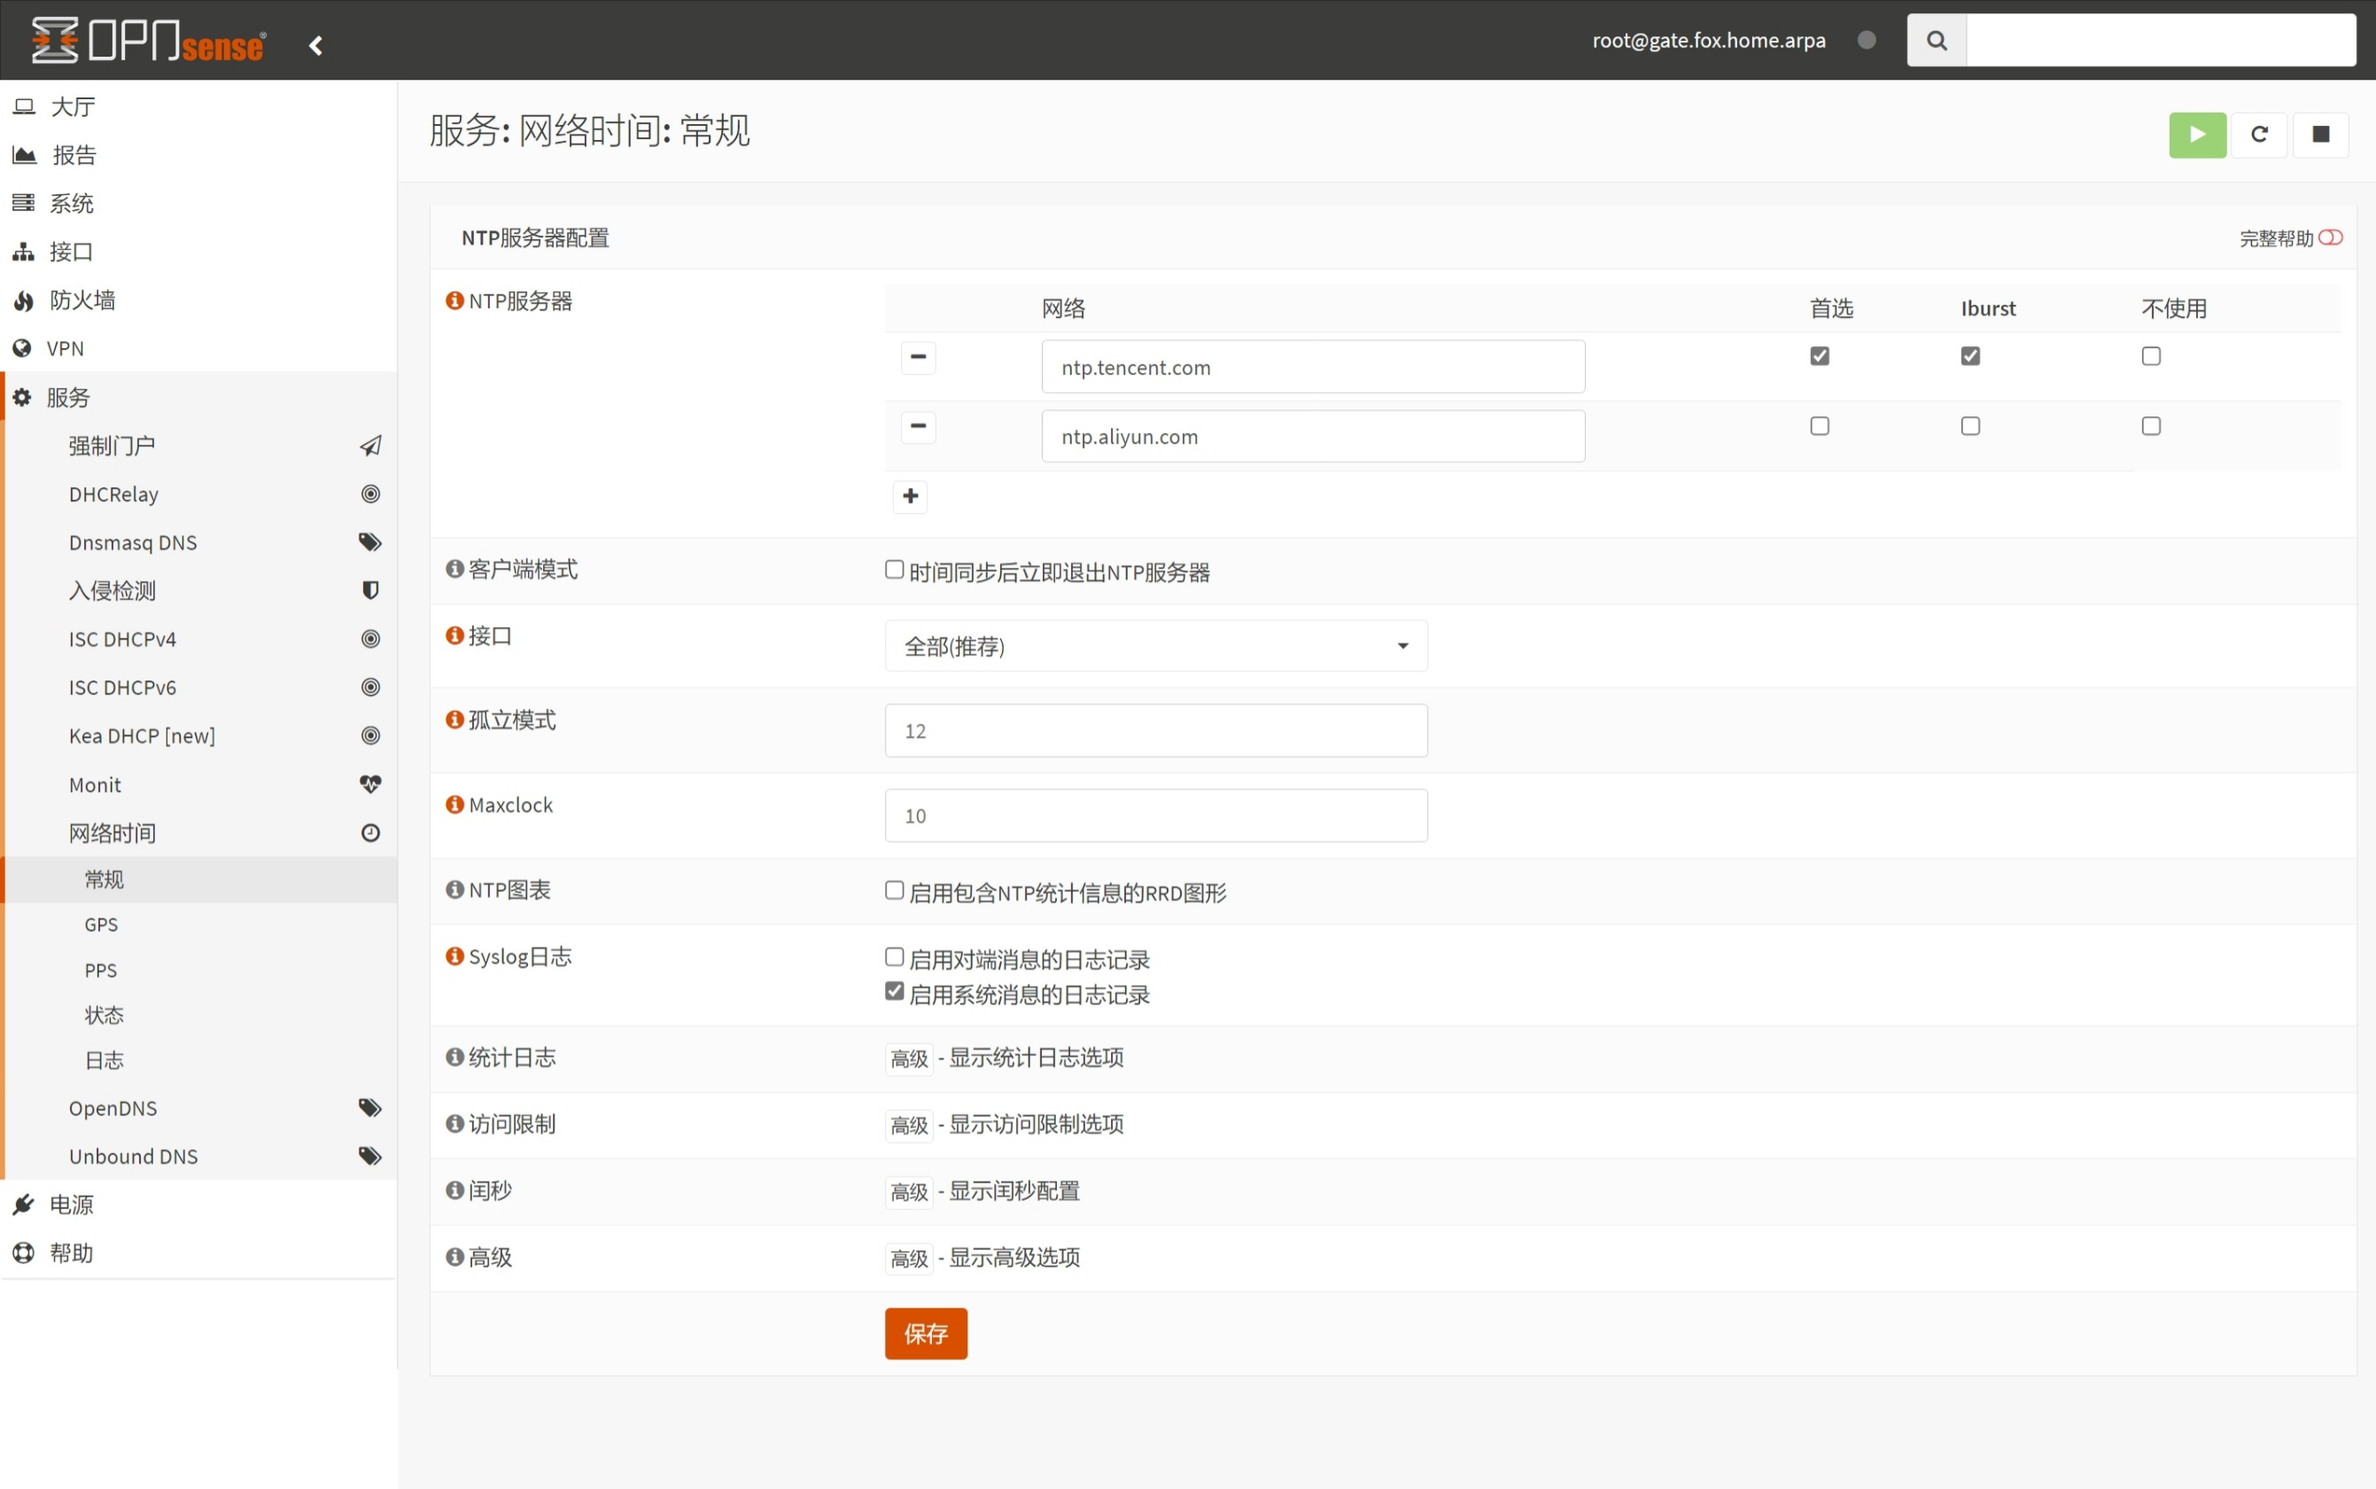
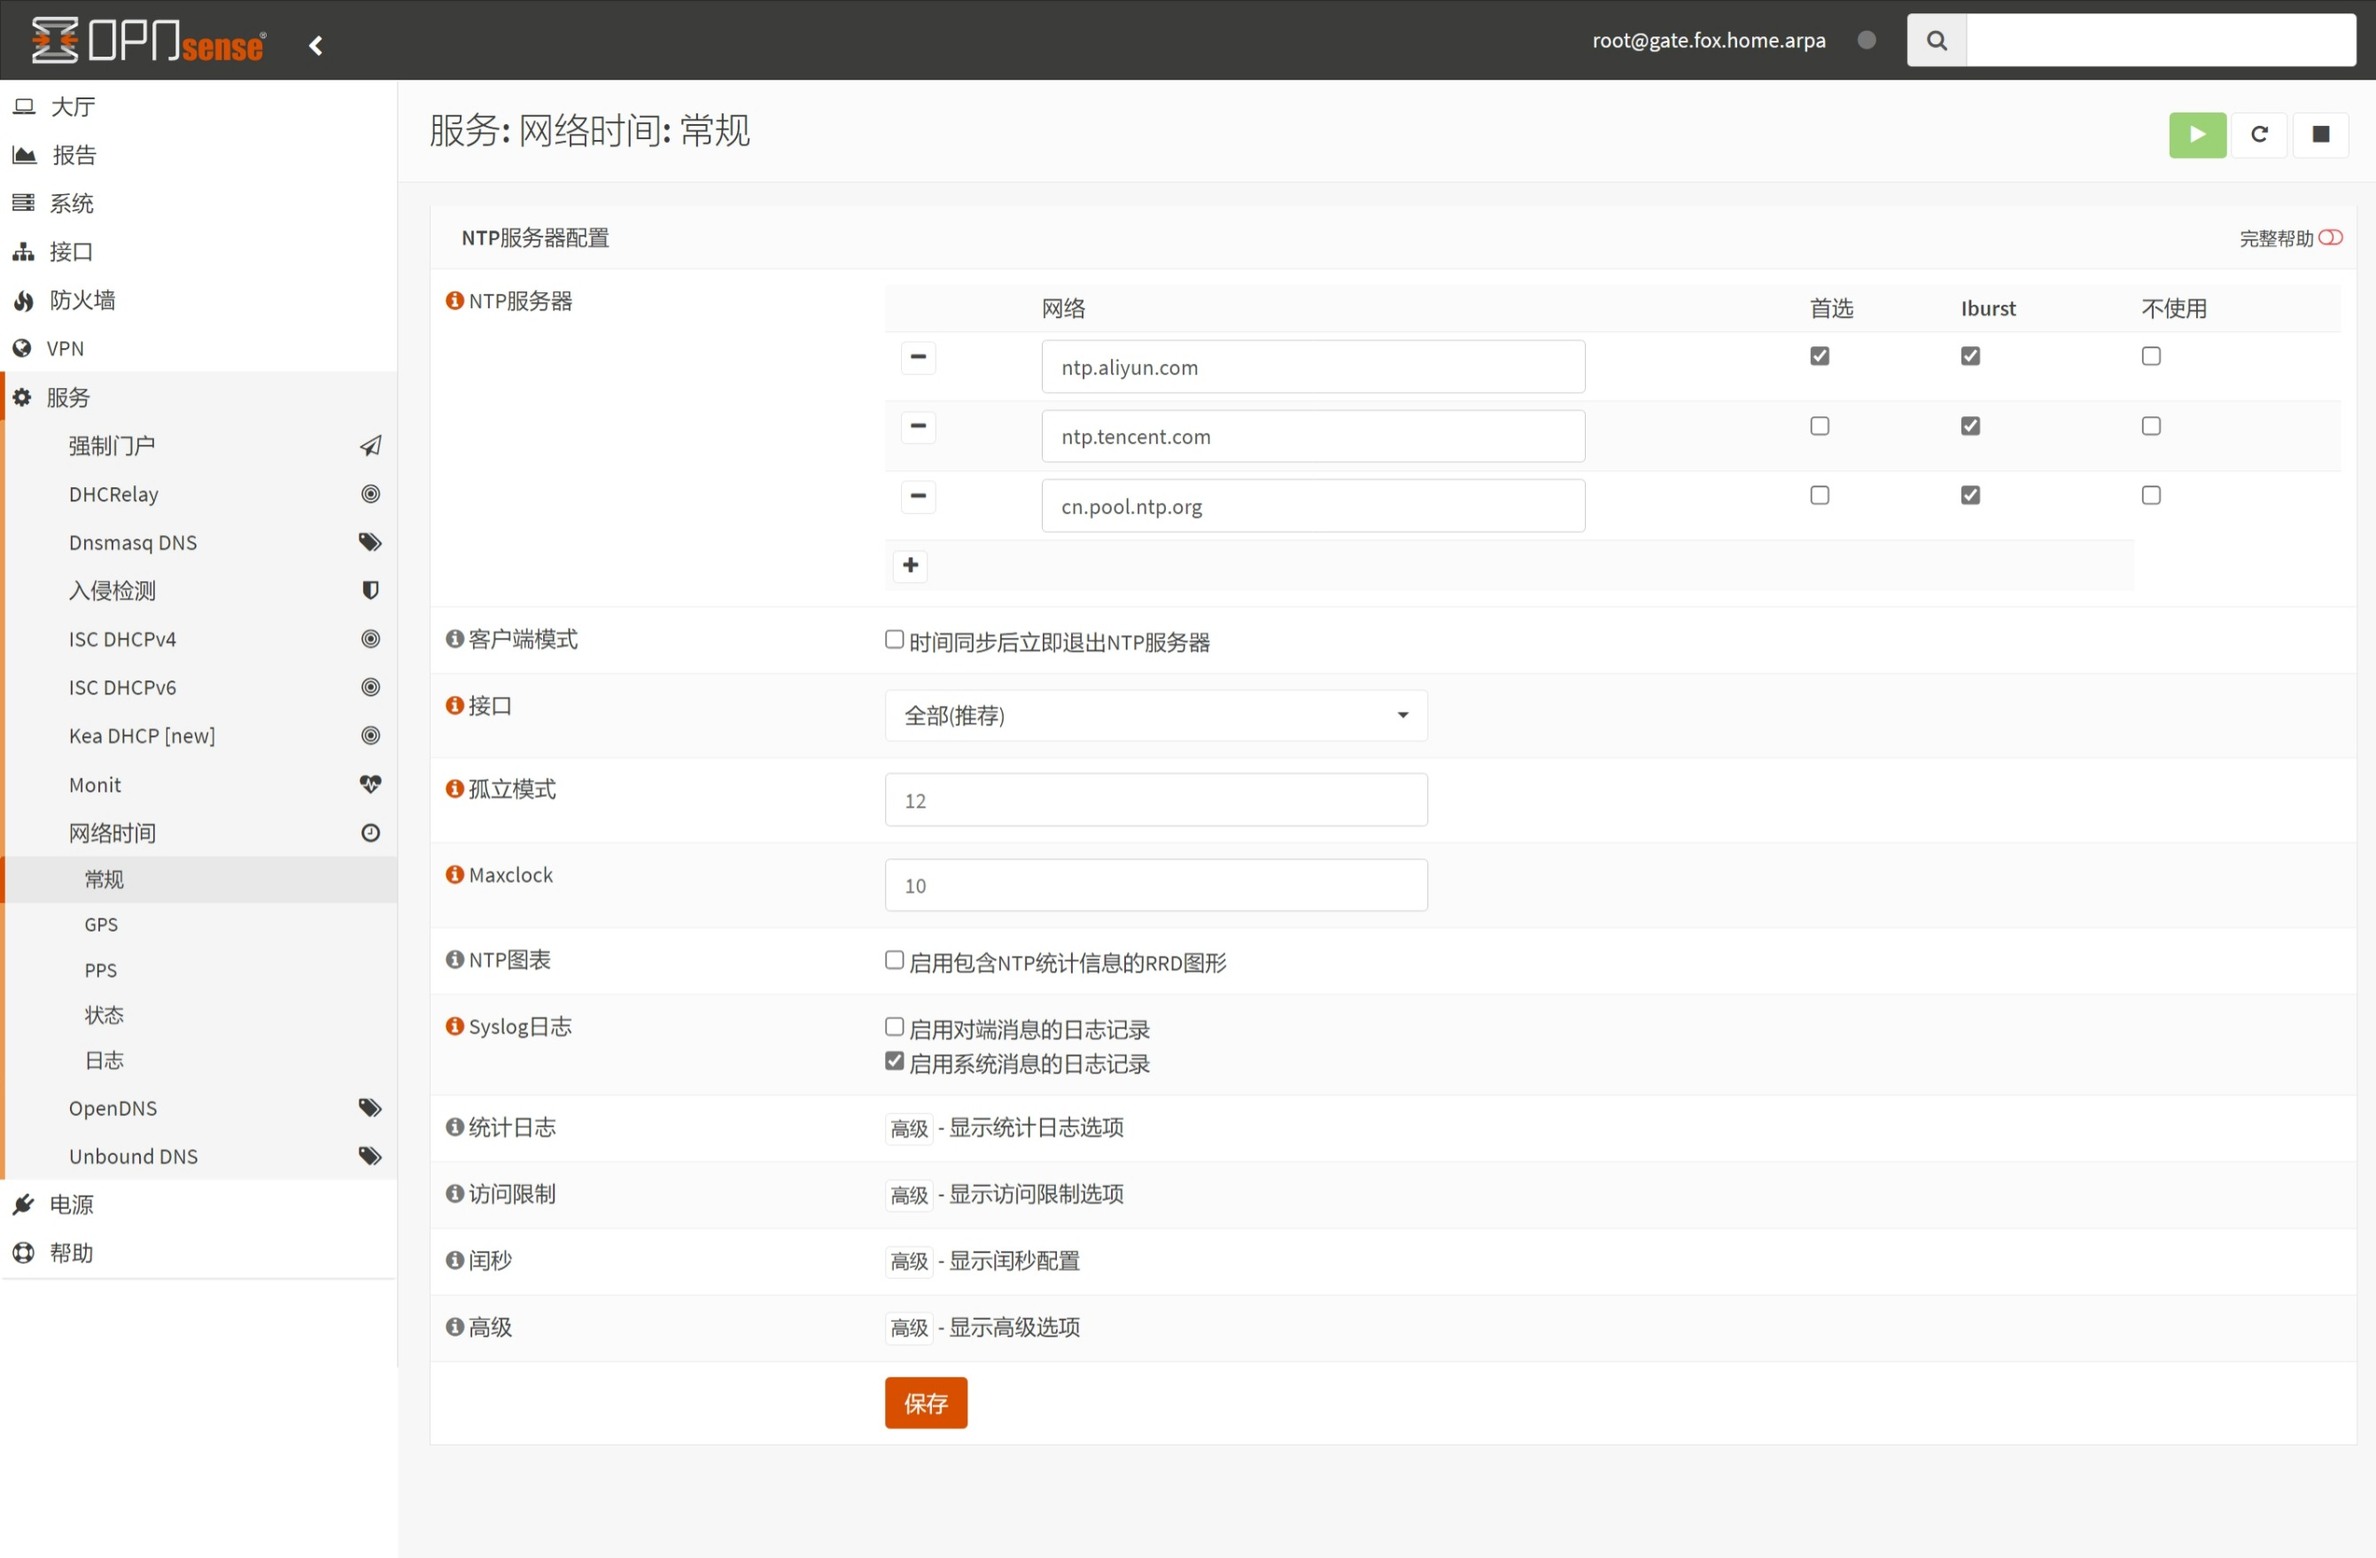
同步更新

diff --git a/08.设置Unbound.md b/08.设置Unbound.md
@@ -95,18 +95,34 @@
 
 ```txt
 ## 列表名称
-Malware Filter - 用于拦截病毒域名
-
-## 黑名单链接
-https://malware-filter.gitlab.io/malware-filter/urlhaus-filter-hosts.txt
-```
-
-```txt
-## 列表名称
 Neodevhost - 用于拦截广告域名
 
 ## 黑名单链接
 https://neodev.team/lite_host
+```
+
+```txt
+## 列表名称
+anti-AD Filters - 用于拦截广告域名
+
+## 黑名单链接
+https://anti-ad.net/domains.txt
+```
+
+```txt
+## 列表名称
+StevenBlack - 用于拦截广告域名
+
+## 黑名单链接
+https://raw.githubusercontent.com/StevenBlack/hosts/master/hosts
+```
+
+```txt
+## 列表名称
+Malware Filter - 用于拦截病毒域名
+
+## 黑名单链接
+https://malware-filter.gitlab.io/malware-filter/urlhaus-filter-hosts.txt
 ```
 
 按需修改完成后，点击页面底部 `应用` 。  

diff --git a/03.系统初始化.md b/03.系统初始化.md
@@ -34,7 +34,7 @@ OPNsense 默认账户为 `root` ，初始化密码为 `opnsense` ，使用该密
 
 |参数|值|说明|
 |--|--|--|
-|Time server hostname|`ntp.tencent.com ntp.aliyun.com`|系统 NTP 服务器地址，用空格隔开|
+|Time server hostname|`ntp.aliyun.com ntp.tencent.com cn.pool.ntp.org`|系统 NTP 服务器地址，用空格隔开|
 |Timezone|`Asia/Shanghai`|系统本地时区|
 
 按需修改完成后，点击 `Next` 。  
